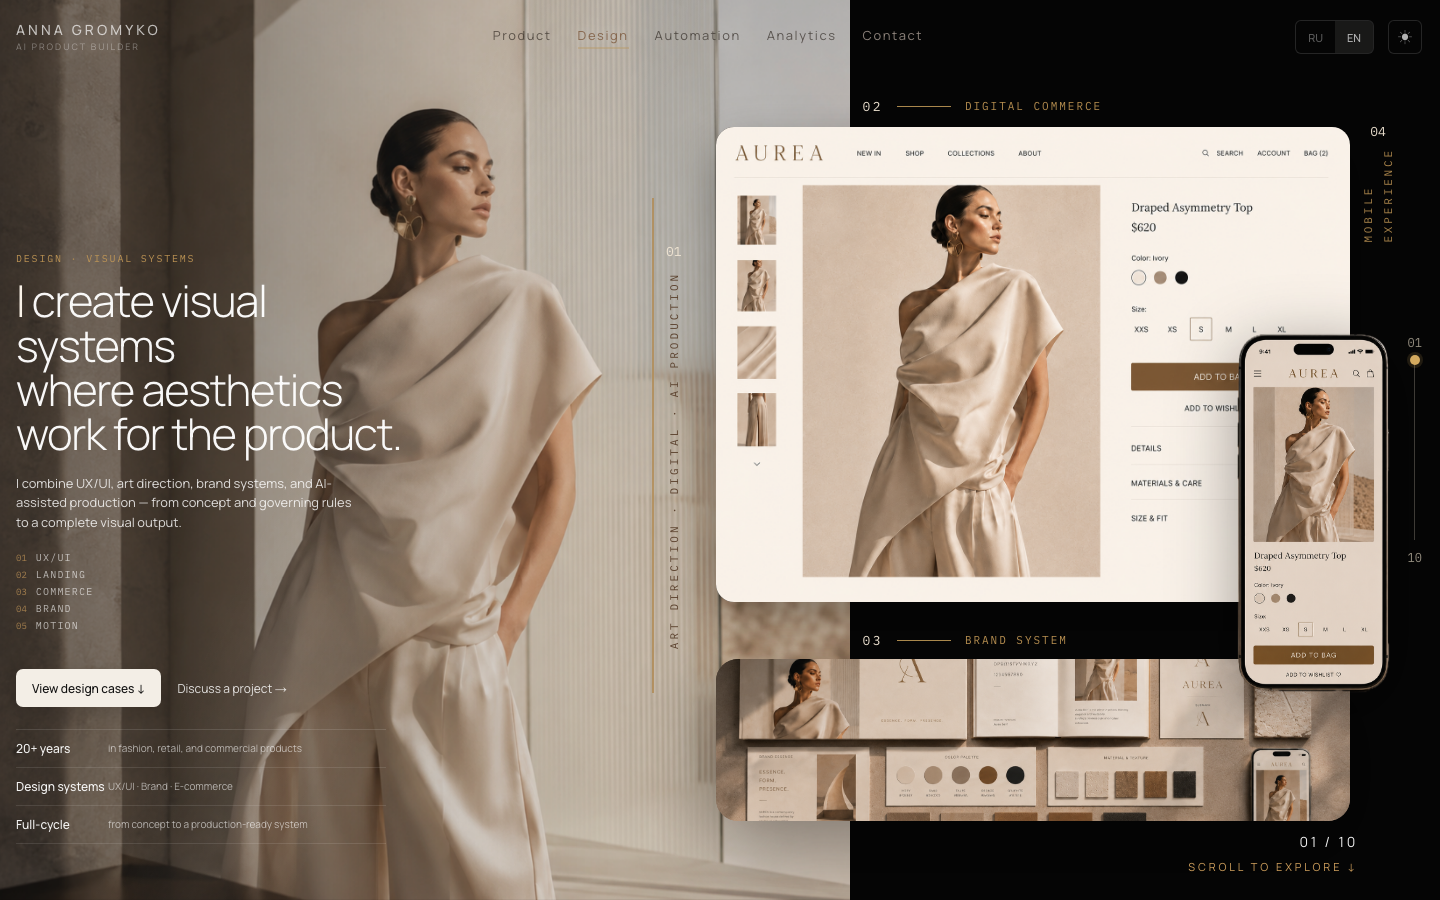
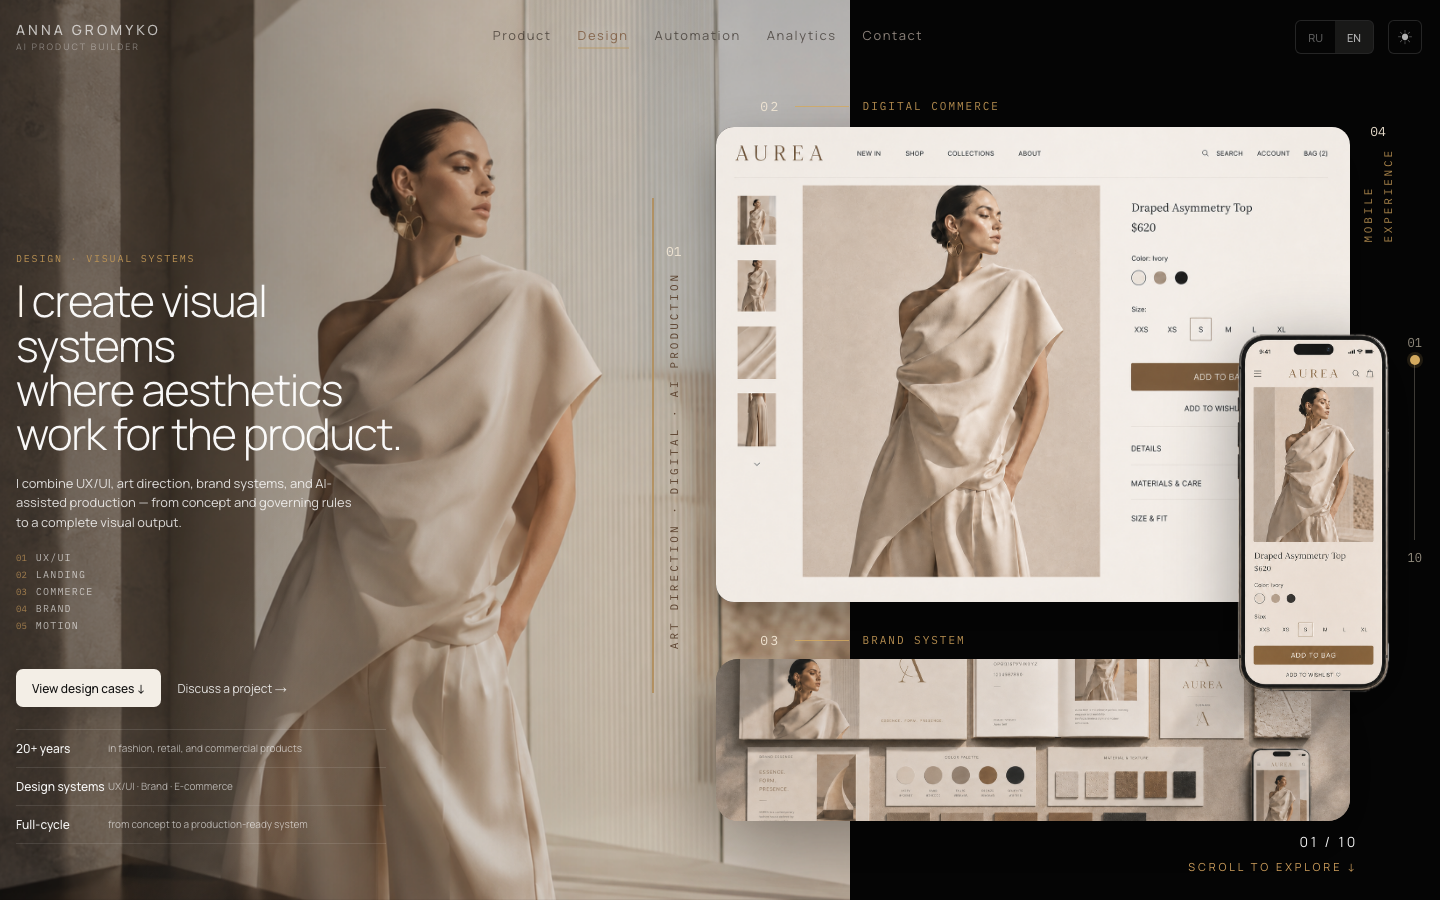
fix(design): soften hero assets and align labels

diff --git a/e2e/design-approved-visual-polish.spec.ts b/e2e/design-approved-visual-polish.spec.ts
@@ -136,6 +136,7 @@ test('polish matrix has no overflow, collisions, broken media or character nodes
 })
 
 test('captures the approved visual-polish evidence set', async ({ page }) => {
+  test.setTimeout(90_000)
   await setMode(page, 'ru', 'dark')
   await page.setViewportSize({ width: 1440, height: 900 })
   await page.goto('/design')
@@ -203,6 +204,7 @@ test('hero header and artifact anchors remain aligned across the viewport matrix
         mobileLabel: rect('.design-approved-hero-mobile-label'),
         commerceCard: rect('.design-approved-hero-commerce__card'),
         commerceLabel: rect('.design-approved-hero-commerce > .design-approved-hero-stack-label'),
+        commerceTitle: rect('.design-approved-hero-commerce > .design-approved-hero-stack-label b'),
         brandLabelBox: rect('.design-approved-hero-brand .design-approved-hero-stack-label'),
         brandCard: rect('.design-approved-hero-brand__card'),
         brandImage: rect('.design-approved-hero-brand__card img'),
@@ -229,6 +231,7 @@ test('hero header and artifact anchors remain aligned across the viewport matrix
     expect(geometry.mobileLabel).not.toBeNull()
     expect(geometry.commerceCard).not.toBeNull()
     expect(geometry.commerceLabel).not.toBeNull()
+    expect(geometry.commerceTitle).not.toBeNull()
     expect(geometry.brandLabelBox).not.toBeNull()
     expect(geometry.brandCard).not.toBeNull()
     expect(geometry.brandImage).not.toBeNull()
@@ -236,14 +239,16 @@ test('hero header and artifact anchors remain aligned across the viewport matrix
     if (!geometry.scene || !geometry.brandmark || !geometry.eyebrow || !geometry.analytics
       || !geometry.contact || !geometry.controls || !geometry.rail || !geometry.scrollCue || !geometry.stack
       || !geometry.phone || !geometry.mobileLabel || !geometry.commerceCard
-      || !geometry.commerceLabel || !geometry.brandLabelBox || !geometry.brandCard
+      || !geometry.commerceLabel || !geometry.commerceTitle || !geometry.brandLabelBox || !geometry.brandCard
       || !geometry.brandImage || !geometry.brandLabel) continue
 
     expect(Math.abs(geometry.brandmark.left - geometry.eyebrow.left)).toBeLessThanOrEqual(.5)
     expect(geometry.analytics.right).toBeLessThanOrEqual(geometry.scene.right - 12)
     expect(geometry.contact.left).toBeGreaterThanOrEqual(geometry.scene.right + 12)
-    expect(Math.abs(geometry.commerceLabel.left - geometry.contact.left)).toBeLessThanOrEqual(.5)
-    expect(Math.abs(geometry.brandLabelBox.left - geometry.contact.left)).toBeLessThanOrEqual(.5)
+    expect(Math.abs(geometry.commerceTitle.left - geometry.contact.left)).toBeLessThanOrEqual(.5)
+    expect(Math.abs(geometry.brandLabel.left - geometry.contact.left)).toBeLessThanOrEqual(.5)
+    expect(geometry.commerceTitle.left).toBeGreaterThanOrEqual(geometry.scene.right + 12)
+    expect(geometry.brandLabel.left).toBeGreaterThanOrEqual(geometry.scene.right + 12)
     expect(Math.abs(geometry.controls.right - geometry.rail.right)).toBeLessThanOrEqual(.5)
     expect(geometry.stack.left).toBeLessThanOrEqual(geometry.scene.right - 12)
     expect(geometry.phone.right - geometry.stack.right).toBeCloseTo(112, 0)
@@ -332,6 +337,77 @@ test('captures the hero header alignment viewport matrix', async ({ page }) => {
       animations: 'disabled',
     })
   }
+})
+
+test('hero 02, 03 and 04 use full-resolution graded assets without tonal CSS processing', async ({ page }) => {
+  await page.setViewportSize({ width: 1440, height: 900 })
+  await page.goto('/design')
+  await expect(page.locator('.design-approved-hero-mobile img')).toBeVisible()
+
+  const assets = await page.evaluate(() => {
+    const inspect = (selector: string) => {
+      const image = document.querySelector<HTMLImageElement>(selector)!
+      const imageStyle = getComputedStyle(image)
+      const parentStyle = getComputedStyle(image.parentElement!)
+      const box = image.getBoundingClientRect()
+      return {
+        src: image.currentSrc,
+        naturalWidth: image.naturalWidth,
+        naturalHeight: image.naturalHeight,
+        renderedWidth: box.width,
+        renderedHeight: box.height,
+        filter: imageStyle.filter,
+        parentFilter: parentStyle.filter,
+        mixBlendMode: imageStyle.mixBlendMode,
+        parentMixBlendMode: parentStyle.mixBlendMode,
+        transform: imageStyle.transform,
+        imageRendering: imageStyle.imageRendering,
+      }
+    }
+
+    return {
+      commerce: inspect('.design-approved-hero-commerce__card img'),
+      brand: inspect('.design-approved-hero-brand__card img'),
+      mobile: inspect('.design-approved-hero-mobile img'),
+    }
+  })
+
+  expect(assets.commerce).toMatchObject({
+    naturalWidth: 1448,
+    naturalHeight: 1086,
+    filter: 'none',
+    parentFilter: 'none',
+    mixBlendMode: 'normal',
+    parentMixBlendMode: 'normal',
+    transform: 'none',
+    imageRendering: 'auto',
+  })
+  expect(assets.brand).toMatchObject({
+    naturalWidth: 1747,
+    naturalHeight: 900,
+    filter: 'none',
+    parentFilter: 'none',
+    mixBlendMode: 'normal',
+    parentMixBlendMode: 'normal',
+    transform: 'none',
+    imageRendering: 'auto',
+  })
+  expect(assets.mobile).toMatchObject({
+    naturalWidth: 941,
+    naturalHeight: 1672,
+    filter: 'none',
+    mixBlendMode: 'normal',
+    parentMixBlendMode: 'normal',
+    transform: 'none',
+    imageRendering: 'auto',
+  })
+  expect(assets.mobile.parentFilter).toMatch(/^drop-shadow/)
+  expect(assets.commerce.src).toMatch(/hero-eyewear-graded\.png$/)
+  expect(assets.brand.src).toMatch(/hero-brand-graded\.png$/)
+  expect(assets.mobile.src).toMatch(/hero-mobile-graded\.png$/)
+  expect(assets.commerce.naturalWidth / assets.commerce.renderedWidth).toBeGreaterThan(2)
+  expect(assets.brand.naturalWidth / assets.brand.renderedWidth).toBeGreaterThan(2)
+  expect(assets.mobile.naturalWidth / assets.mobile.renderedWidth).toBeGreaterThan(2)
 })
 
 test('hero commerce and brand panels keep a controlled responsive relationship', async ({ page }) => {

diff --git a/src/features/design-approved/DesignApprovedPolish.css b/src/features/design-approved/DesignApprovedPolish.css
@@ -180,6 +180,7 @@ html[data-page='design'] :is(
     --design-hero-panel-label-space: clamp(42px, 3.3vw, 48px);
     --design-hero-panel-gap: clamp(10px, .8vw, 14px);
     --design-hero-brand-bottom: clamp(30px, 4vh, 48px);
+    --design-hero-label-prefix: 102.28125px;
   }
 
   .design-approved-page .design-approved-hero-commerce {
@@ -189,7 +190,7 @@ html[data-page='design'] :is(
   .design-approved-page .design-approved-hero-commerce > .design-approved-hero-stack-label,
   .design-approved-page .design-approved-hero-brand > .design-approved-hero-stack-label {
     position: relative;
-    left: calc(100% - 41vw + 103px);
+    left: calc(100% - 41vw + 103px - var(--design-hero-label-prefix));
     width: max-content;
   }
 
@@ -215,7 +216,7 @@ html[data-page='design'] :is(
     height: calc(100% - 28px);
     background:
       #111
-      url('/assets/design-approved/hero-brand.png')
+      url('/assets/design-approved/hero-brand-graded.png')
       0 center / cover
       no-repeat;
   }
@@ -235,11 +236,11 @@ html[data-page='design'] :is(
 
   .design-approved-page .design-approved-hero-commerce > .design-approved-hero-stack-label,
   .design-approved-page .design-approved-hero-brand > .design-approved-hero-stack-label {
-    left: calc(100% - 41vw + 118px);
+    left: calc(100% - 41vw + 118px - var(--design-hero-label-prefix));
   }
 
   .design-approved-page .design-approved-hero-brand > .design-approved-hero-stack-label {
-    left: calc(100% - 41vw + 116px);
+    left: calc(100% - 41vw + 116px - var(--design-hero-label-prefix));
   }
 }
 
@@ -288,7 +289,7 @@ html[data-page='design'] :is(
 
   .design-approved-page .design-approved-hero-commerce > .design-approved-hero-stack-label,
   .design-approved-page .design-approved-hero-brand > .design-approved-hero-stack-label {
-    left: 31px;
+    left: calc(31px - var(--design-hero-label-prefix));
   }
 
   .design-approved-page .design-approved-hero-mobile {

diff --git a/src/features/design-approved/designApprovedAssets.ts b/src/features/design-approved/designApprovedAssets.ts
@@ -22,10 +22,10 @@ export const DESIGN_APPROVED_ASSETS = {
   commercialCase3: asset('case7-3-cover.png'),
   design: asset('design.png'),
   designVideo: asset('design_v3.mp4'),
-  heroBrand: asset('hero-brand.png'),
-  heroCommerce: asset('hero-eyewear.png'),
+  heroBrand: asset('hero-brand-graded.png'),
+  heroCommerce: asset('hero-eyewear-graded.png'),
   heroFashion: asset('hero-fashion.png'),
-  heroMobile: asset('hero-mobile.png'),
+  heroMobile: asset('hero-mobile-graded.png'),
   lookbook1: asset('lookbook-1.png'),
   lookbook2: asset('lookbook-2.png'),
   lookbook3: asset('lookbook-3.png'),
@@ -60,4 +60,3 @@ export const DESIGN_APPROVED_ASSETS = {
   railProduction: asset('rail-03-production.png'),
   railSystem: asset('rail-04-system.png'),
 } as const
-

diff --git a/qa/results/design-approved/hero-spec-report.md b/qa/results/design-approved/hero-spec-report.md
@@ -7,18 +7,18 @@
 - Diff: `qa/results/design-approved/hero-diff-1746x1406.png`
 - Device scale factor: 1
 - Pixelmatch threshold: 0.25 (rasterisation tolerance only; geometry is unmasked)
-- Overall difference: 0.0000%
+- Overall difference: 0.0941%
 - Native scrollbar mask: rightmost 16px only
 
 ### Region differences
 
 - header: 0.0000%
-- leftScene: 0.0000%
+- leftScene: 0.0028%
 - text: 0.0000%
 - axis: 0.0000%
-- commerce: 0.0000%
-- mobile: 0.0000%
-- brand: 0.0000%
+- commerce: 0.2595%
+- mobile: 0.4336%
+- brand: 0.1316%
 - rail: 0.0000%
 
 ## Pixel-spec compliance — 1440×900
@@ -32,9 +32,9 @@
 | H1 | polished responsive scale; max-width 408px | 43.92px; 44.3592px; 408px; box 390.578125×177.4375 | PASS |
 | Axis | left 652px; top 198px; height 495px | left 652px; top 198px; height 495px | PASS |
 | Right stack | right 90px; top 48px; 633.59375×810px | right 90px; top 48px; 633.59375×810px | PASS |
-| Mobile artifact | width 382px; top 98.59375px; right -140px inside stack | width 382px; top 98.59375px; right -140px | PASS |
+| Mobile artifact | width 382px; top 98.59375px; right -140px inside stack | width 297px; top 206.59375px; right -112px | PASS |
 | Commerce block | polished top anchor inside stack | top 49.5px; box 633.59375×504.1875px | PASS |
-| Brand block | polished responsive anchor | bottom 49.5px; height 214.453125px | PASS |
+| Brand block | polished responsive anchor | bottom 36px; height 190.265625px | PASS |
 | Scroll cue | right 82px; bottom 26px | right 82px; bottom 26px | PASS |
 
 ### Raw computed values
@@ -46,9 +46,9 @@
 - H1: left=16, top=278.265625, right=1033.421875, bottom=444.296875, width=390.578125, height=177.4375, maxWidth=408px, fontSize=43.92px, lineHeight=44.3592px, overflow=visible, background=rgba(0, 0, 0, 0), objectPosition=50% 50%
 - Axis: left=652, top=198, right=786, bottom=207, width=2, height=495, maxWidth=none, fontSize=16px, lineHeight=normal, overflow=visible, background=rgba(0, 0, 0, 0), objectPosition=50% 50%
 - Right stack: left=716.40625, top=48, right=90, bottom=42, width=633.59375, height=810, maxWidth=none, fontSize=16px, lineHeight=normal, overflow=visible, background=rgba(0, 0, 0, 0), objectPosition=50% 50%
-- Mobile artifact: left=1108, top=146.59375, right=-50, bottom=74.65625, width=382, height=678.75, maxWidth=none, fontSize=16px, lineHeight=normal, overflow=visible, background=rgba(0, 0, 0, 0), objectPosition=50% 50%
+- Mobile artifact: left=1165, top=254.59375, right=-22, bottom=117.6875, width=297, height=527.71875, maxWidth=none, fontSize=16px, lineHeight=normal, overflow=visible, background=rgba(0, 0, 0, 0), objectPosition=50% 50%
 - Commerce block: left=716.40625, top=97.5, right=90, bottom=298.3125, width=633.59375, height=504.1875, maxWidth=none, fontSize=16px, lineHeight=normal, overflow=visible, background=rgba(0, 0, 0, 0), objectPosition=50% 50%
-- Brand block: left=716.40625, top=594.046875, right=90, bottom=91.5, width=633.59375, height=214.453125, maxWidth=none, fontSize=16px, lineHeight=normal, overflow=visible, background=rgba(0, 0, 0, 0), objectPosition=50% 50%
+- Brand block: left=716.40625, top=631.734375, right=90, bottom=78, width=633.59375, height=190.265625, maxWidth=none, fontSize=16px, lineHeight=normal, overflow=visible, background=rgba(0, 0, 0, 0), objectPosition=50% 50%
 - Scroll cue: left=1244.171875, top=832, right=82, bottom=26, width=113.828125, height=42, maxWidth=none, fontSize=16px, lineHeight=normal, overflow=visible, background=rgba(0, 0, 0, 0), objectPosition=50% 50%
 - Horizontal overflow: 0px
 - Floating character nodes: 0
